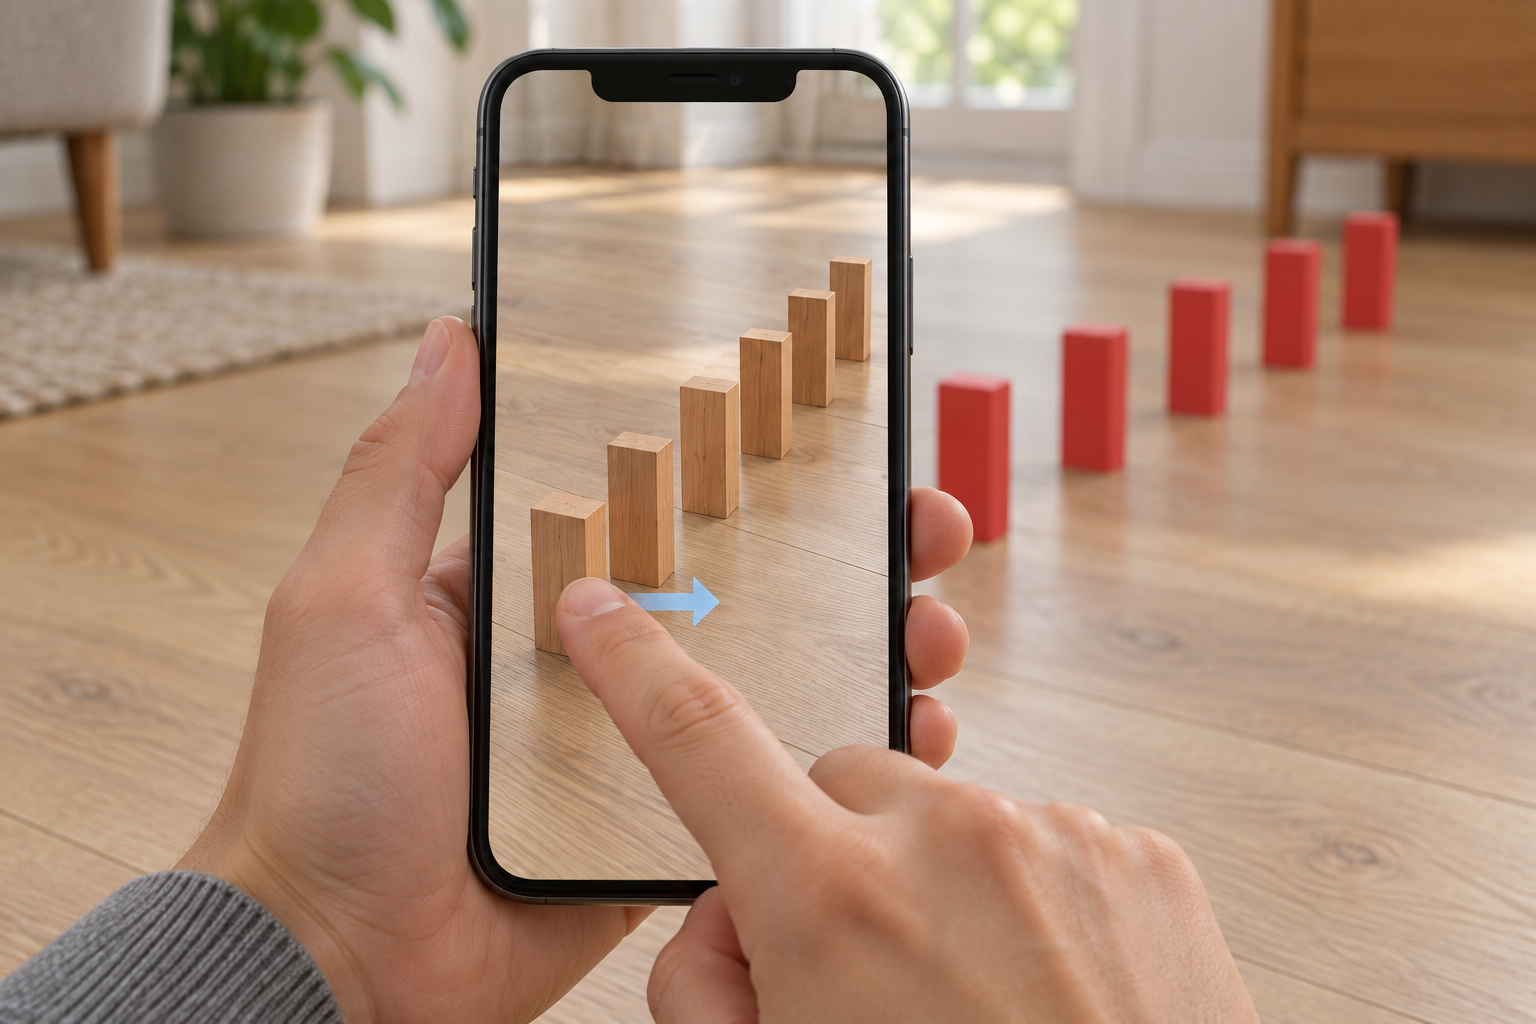
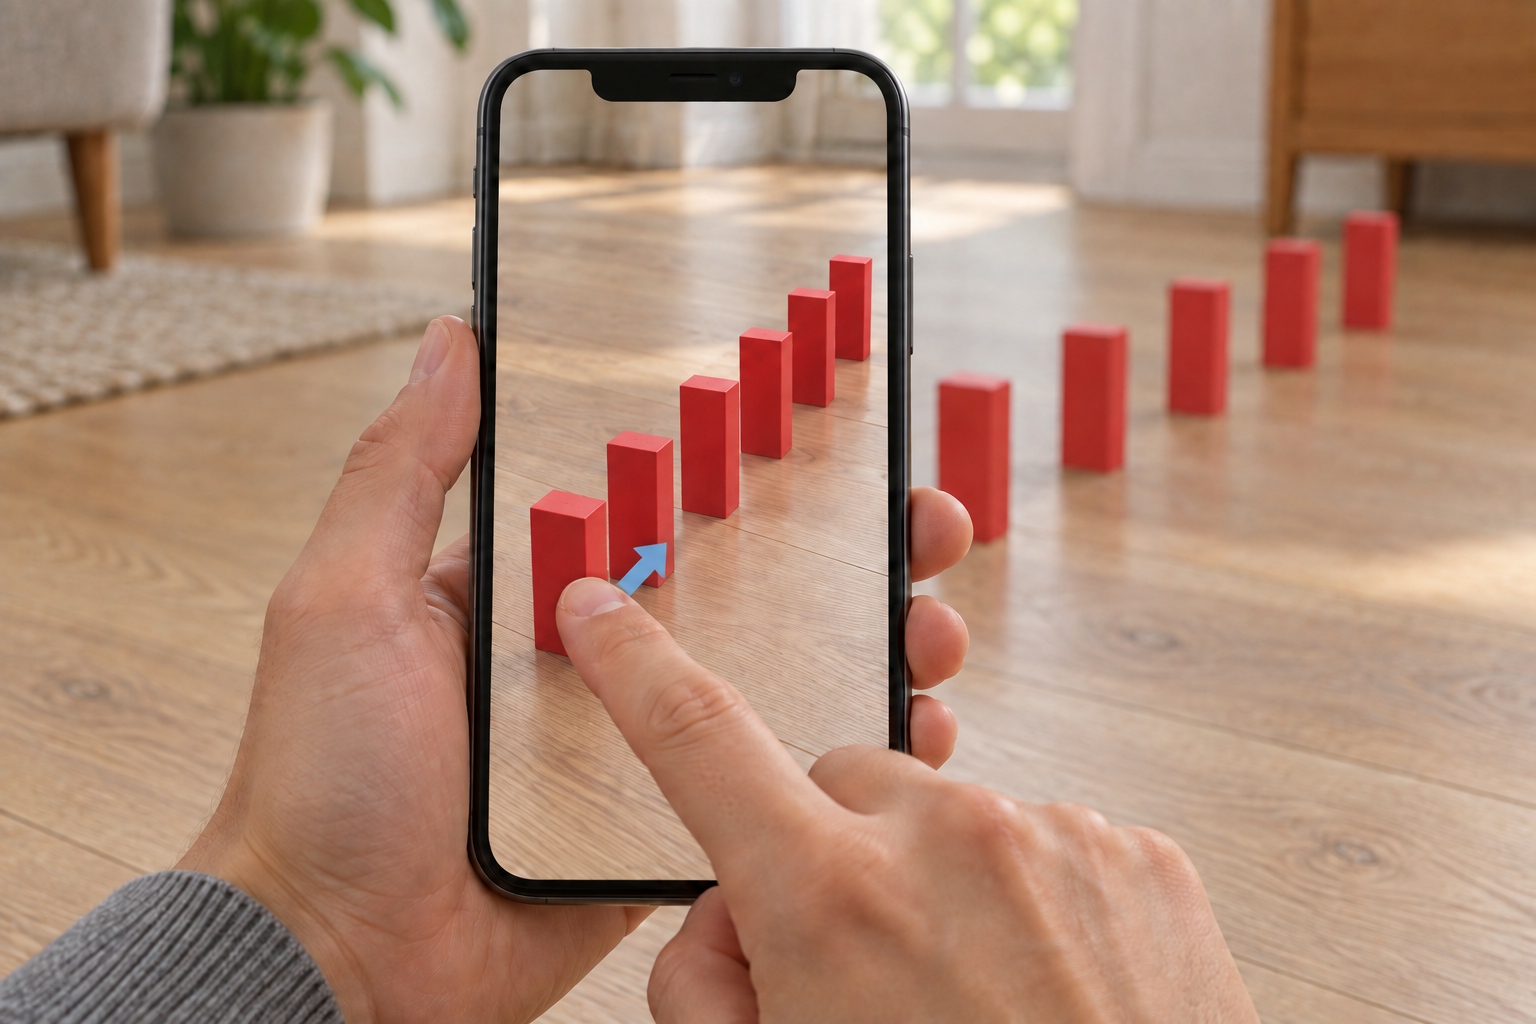
docs: use real Xcode screenshots and fix domino color continuity in Ch5 image
- Replace AI-generated Xcode template/target-membership illustrations with
  actual screenshots for accuracy
- Fix finger-drag-domino-illustration.png: dominoes were shown as wood in the
  phone screen even though USDZ wood models aren't introduced until Chapter6;
  both the on-screen and background dominoes are now red to match the app's
  actual state at this point in the tutorial

Changed region(s): [[0.3438, 0.25, 0.5938, 0.6562]]

diff --git a/ARDominoChainReaction/Docs/xcode-template-prompt.md b/ARDominoChainReaction/Docs/xcode-template-prompt.md
@@ -1,0 +1,10 @@
+# Step 1 템플릿 선택 이미지 재생성
+
+도구: built-in image_gen.
+저장 파일: `../ARDominoChainReaction.docc/Resources/xcode-ios-app-template.png`
+사용자가 첨부한 다크 모드 Xcode 화면의 템플릿 배치를 유지하고, 기존 튜토리얼의 라이트톤과 파란 강조 화살표를 적용했습니다. 실제 캡처가 아닌 설명용 생성 이미지입니다.
+
+## 프롬프트
+
+Edit reference image 1 into a clean LIGHT MODE Xcode template picker tutorial illustration. Reference 1 is the exact content/layout target. Reference 2 provides the existing tutorial's white/light gray visual style and blue instructional arrows ONLY. Preserve ALL template choices and their arrangement from reference 1, never simplify to the three cards of reference 2. Landscape 1536x1024. Whole dialog visible, rounded corners, white outside background, very light gray window, subtle gray borders, dark crisp legible sans-serif text, blue outline template icons. Heading exactly "Choose a template for your new project:". Top tabs in order: Multiplatform, iOS, macOS, watchOS, tvOS, visionOS, DriverKit, Other. iOS selected with blue background white text. Filter field at upper right. Application section: first row App (selected), Document App, Game, Augmented Reality App, App Playground. Second row Sticker Pack App, iMessage App, Safari Extension App. Lower Framework & Library section with Framework, Static Library, Metal Library. Preserve blue line icon forms in original screenshot, including flying saucer Game and dashed cube Augmented Reality App. App icon tile selected with pale blue background and blue thin rounded outline; label App white on blue pill. Other template labels dark gray and unselected. Scrollbar on right, footer Cancel left, disabled Previous and blue Next right. Add exactly two small blue instructional arrows from clear whitespace: one pointing to iOS tab, one to selected App tile, without covering any text or icons. No Korean annotation, no other labels, no warning or strike-through on AR template. Match polished light-tone existing tutorial images, retaining reference screenshot's complete grid. Do not crop any buttons or labels.
+

diff --git a/ARDominoChainReaction/Docs/xcode-target-membership-prompt.md b/ARDominoChainReaction/Docs/xcode-target-membership-prompt.md
@@ -1,0 +1,9 @@
+# Step 4 타겟 멤버십 이미지
+
+도구: built-in image_gen. 사용자 첨부 파일 추가 옵션 화면을 참고한 라이트톤 설명용 이미지이며 실제 캡처가 아닙니다.
+저장: `../ARDominoChainReaction.docc/Resources/xcode-target-membership.png`
+
+## 프롬프트
+
+Create a faithful LIGHT MODE version of input image 1, an Xcode file import options dialog. Input image 1 is the exact UI content and arrangement reference. Input image 2 is ONLY the light white/gray palette and blue instructional highlight style reference; do not reproduce its File Inspector or editor layout. Landscape 1536x1024, entire dialog visible, rounded window, white background, very light gray panels, thin gray borders, dark crisp macOS sans-serif text, soft subtle shadow. Heading exactly "Choose options for adding these files:". Below it label "Action:" and dropdown "Copy files to destination". Below that label "Targets:" and a large white bordered list with exactly three rows: first blue CHECKED checkbox, small app icon and exact text "ARDominoChainReaction"; second EMPTY checkbox and text "ARDominoChainReactionTests"; third EMPTY checkbox and text "ARDominoChainReactionUITests". Keep all full names legible, ample width, no truncation. Only main app target checked. Generous blank area below the three rows within list like screenshot. Bottom left button "Cancel", bottom right BLUE enabled button "Finish". Emphasize the first target row with a thin blue rounded outline and very pale blue tint, plus one short blue arrow from open whitespace on the left pointing at the CHECKED blue app target checkbox, not its label. Preserve reference image 1's layout and ordering, converting dark appearance to light. No File Inspector, no project navigator, no extra checkboxes, no Copy items if needed option, no Add button, no Korean captions, no warning text, no added filename. This is a polished instructional UI illustration matching existing light-tone tutorial pictures.
+

diff --git a/ARDominoChainReaction/Docs/finger-drag-domino-red-prompt.md b/ARDominoChainReaction/Docs/finger-drag-domino-red-prompt.md
@@ -1,0 +1,10 @@
+# Step 5 빨간 도미노와 드래그 방향 수정
+
+도구: built-in image_gen.
+저장: `../ARDominoChainReaction.docc/Resources/finger-drag-domino-illustration.png`
+기존 나뭇결 버전을 대체합니다. 화면 속 도미노를 빨간색으로, 화살표를 다음 도미노 쪽인 오른쪽 위 방향으로 수정했습니다.
+
+## 편집 프롬프트
+
+Edit this existing tutorial illustration with ONLY two corrections. 1. Replace the wood material on ALL SIX domino blocks INSIDE THE PHONE SCREEN with solid matte RED, matching the red blocks outside the screen. No wood grain whatsoever on any domino. Preserve their exact sharp cuboid shapes, dimensions, positions, lighting, contact shadows and upright arrangement. Keep the wood FLOOR unchanged. 2. Replace the current horizontal right-pointing pale blue gesture arrow with a short pale blue arrow pointing DIAGONALLY UP AND RIGHT, toward the NEXT domino in the row (roughly 2 o'clock, following the domino chain into the distance). Arrow tail beside the touching index fingertip at the front block, arrowhead toward the second block; clearly diagonal, never horizontal. Keep arrow small and visible, do not obscure the fingertip. Preserve everything else: realistic hands and their exact pose, black portrait phone, composition, softly blurred room and outside red blocks, warm daylight, photographic rendering, landscape 3:2 resolution 1536x1024. No text or extra UI.
+
